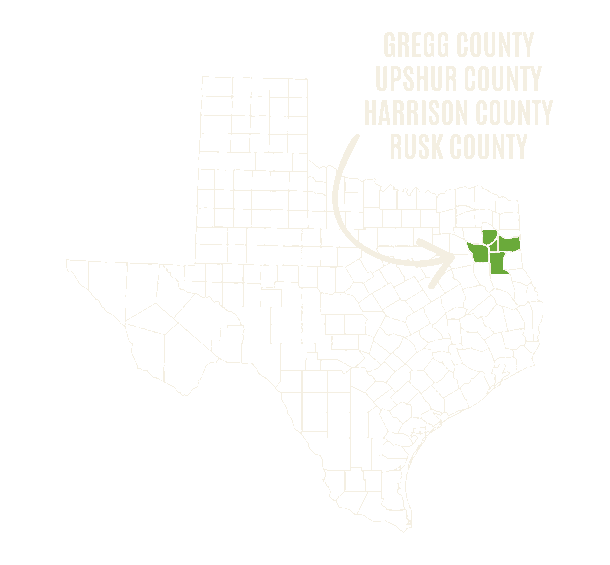
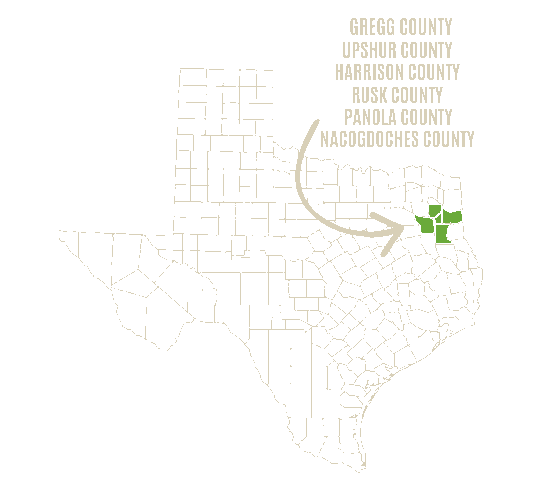
Replace service-area-map with recolored brand-aligned version
Recolors the GREGG COUNTY (2).png source map to match the Yard Dog
brand palette: dark-green background becomes transparent, black
borders/labels/arrow become brand cream, and white highlighted
counties become brand green. The transparent background lets the
dark section bg show through cleanly.

diff --git a/about.html b/about.html
@@ -141,22 +141,7 @@
       <div class="container">
         <div class="service-area-grid">
           <div class="service-area-map">
-            <div class="service-area-map-stage">
-              <img class="service-area-map-img" src="brand_photos/service-area-map.png" alt="Map of Texas with Yard Dog Landscapes' East Texas service area highlighted across Gregg, Upshur, Harrison, Rusk, Smith, Panola, and Nacogdoches counties" loading="lazy" decoding="async" width="610" height="565">
-              <svg class="service-area-map-overlay" viewBox="0 0 610 565" preserveAspectRatio="xMidYMid meet" aria-hidden="true">
-                <!-- Smith County (directly west of Gregg/Upshur) -->
-                <polygon class="svc-county-add" points="430,250 470,248 472,292 432,294 422,272"/>
-                <!-- Panola County (east of Rusk, south of Harrison, against LA) -->
-                <polygon class="svc-county-add" points="520,290 545,290 547,326 522,326"/>
-                <!-- Nacogdoches County (south of Rusk) -->
-                <polygon class="svc-county-add" points="472,308 518,310 522,358 478,360 466,332"/>
-              </svg>
-              <ul class="service-area-map-extra-labels" aria-hidden="true">
-                <li>Smith County</li>
-                <li>Panola County</li>
-                <li>Nacogdoches County</li>
-              </ul>
-            </div>
+            <img class="service-area-map-img" src="brand_photos/service-area-map.png" alt="Map of Texas with Yard Dog Landscapes' East Texas service area — Gregg, Upshur, Harrison, Rusk, Panola, and Nacogdoches counties — highlighted" loading="lazy" decoding="async" width="542" height="502">
           </div>
           <div class="service-area-copy">
             <span class="section-eyebrow">Where we work</span>

diff --git a/styles.css b/styles.css
@@ -1292,55 +1292,17 @@ p { line-height: 1.7; color: var(--color-text-mid); }
   align-items: center;
   position: relative;
 }
-.service-area-map-stage {
-  position: relative;
-  width: 100%;
-  max-width: 540px;
-  filter: drop-shadow(0 6px 20px rgba(106,170,58,0.18));
-  transition: transform 0.4s var(--ease-smooth), filter 0.4s var(--ease-smooth);
-}
-.service-area-map-stage:hover {
-  transform: translateY(-2px) scale(1.015);
-  filter: drop-shadow(0 12px 28px rgba(106,170,58,0.32));
-}
 .service-area-map-img {
   width: 100%;
   height: auto;
+  max-width: 540px;
   display: block;
+  filter: drop-shadow(0 6px 20px rgba(106,170,58,0.18));
+  transition: transform 0.4s var(--ease-smooth), filter 0.4s var(--ease-smooth);
 }
-.service-area-map-overlay {
-  position: absolute;
-  inset: 0;
-  width: 100%;
-  height: 100%;
-  pointer-events: none;
-  overflow: visible;
-}
-.service-area-map-overlay .svc-county-add {
-  fill: #6aaa3a;
-  stroke: #d8d0b8;
-  stroke-width: 0.8;
-  stroke-linejoin: round;
-}
-.service-area-map-extra-labels {
-  position: absolute;
-  top: 27%;
-  right: 3.3%;
-  list-style: none;
-  margin: 0;
-  padding: 0;
-  text-align: right;
-  font-family: 'Anton', 'Arial Narrow', Impact, sans-serif;
-  text-transform: uppercase;
-  letter-spacing: 0.04em;
-  color: #d8d0b8;
-  font-size: clamp(11px, 1.85vw, 18px);
-  line-height: 1.2;
-  pointer-events: none;
-}
-.service-area-map-extra-labels li {
-  margin: 0;
-  padding: 0;
+.service-area-map-img:hover {
+  transform: translateY(-2px) scale(1.015);
+  filter: drop-shadow(0 12px 28px rgba(106,170,58,0.32));
 }
 .service-area-copy .section-eyebrow { display: inline-block; margin-bottom: 14px; }
 .service-area-copy h2 { margin-bottom: 16px; }
